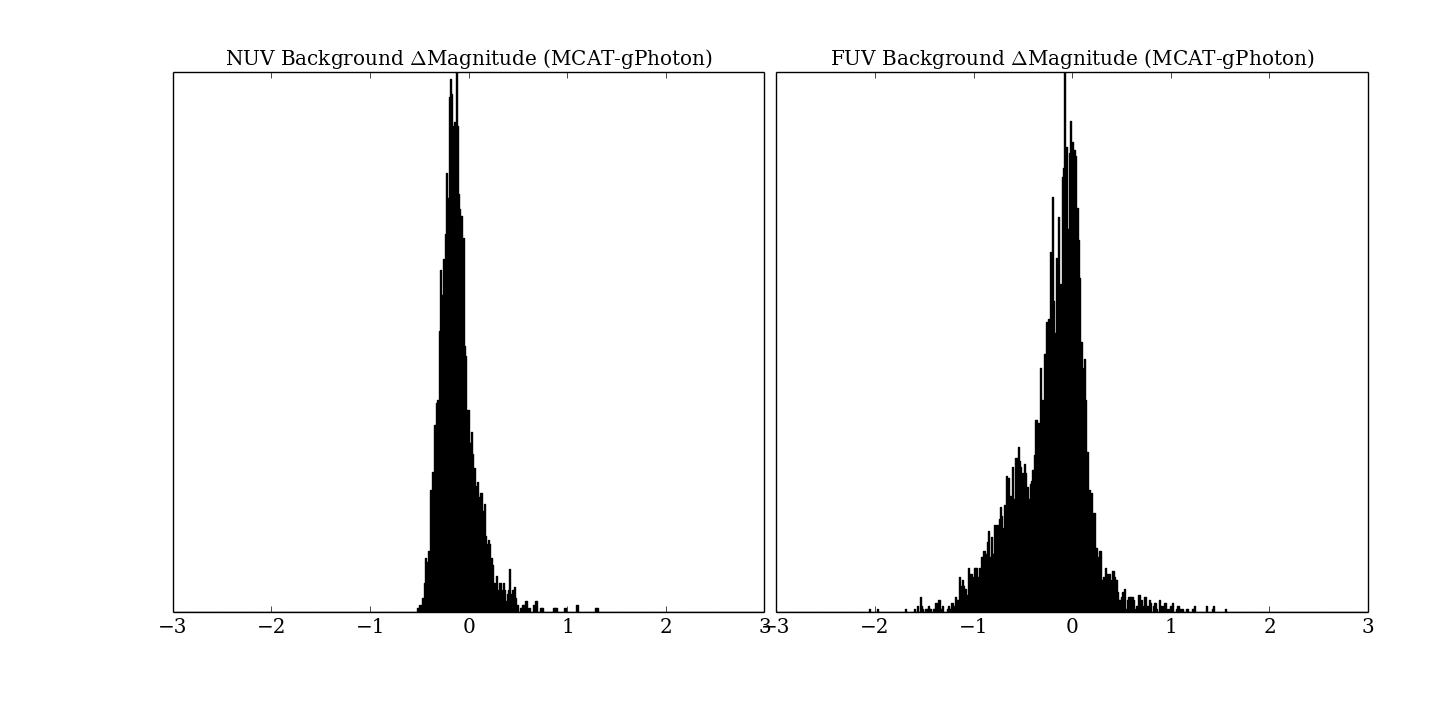
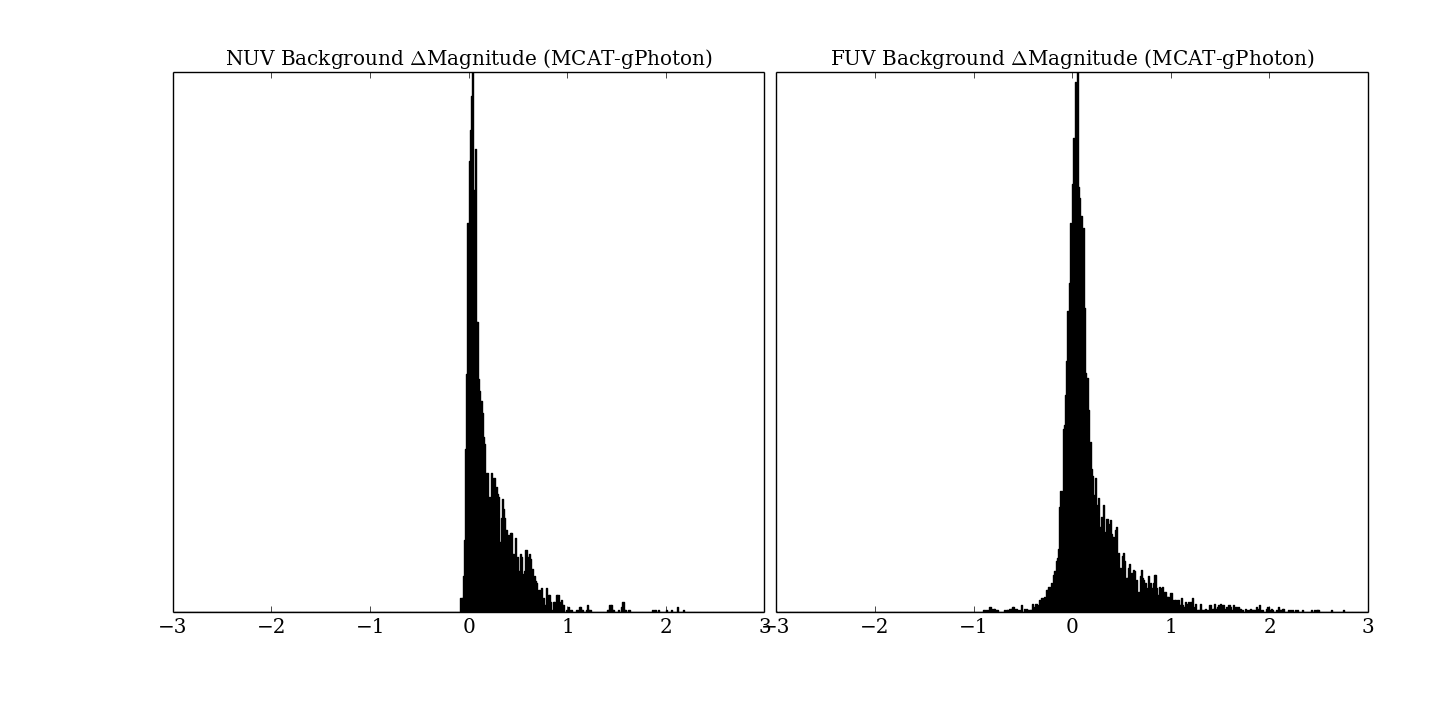
latest iteration

Changed region(s): [[0.625, 0.0917, 0.9062, 0.8556], [0.2812, 0.0917, 0.4375, 0.8556]]

diff --git a/calpaper/src/script.py b/calpaper/src/script.py
@@ -68,12 +68,16 @@ bands = ['NUV','FUV']
 base = 'calrun_'
 data = {}
 for band in bands:
-    data[band] = pd.read_csv('{base}{band}.csv'.format(base=base,band=band))
+    data[band] = pd.read_csv('{base}{band}.csv'.format(
+                                                        base=base,band=band))
     print '{band} sources: {cnt}'.format(
                                 band=band,cnt=data[band]['objid'].shape[0])
 
 """dMag vs. Mag"""
-dmag = {'gphot':lambda band: data[band]['aper4']-data[band]['mag_bgsub_cheese'],
+dmag = {'gphot_cheese':(lambda band:
+                        data[band]['aper4']-data[band]['mag_bgsub_cheese']),
+        'gphot_nomask':(lambda band:
+                        data[band]['aper4']-data[band]['mag_bgsub']),
         'mcat':lambda band: data[band]['aper4']-
             gt.counts2mag(gt.mag2counts(data[band]['mag'],band)-
             data[band]['skybg']*3600**2*mc.area(gt.aper2deg(4)),band)}
@@ -85,8 +89,7 @@ for bgmode in dmag.keys():
         dmag_err=gu.dmag_errors(100.,band,sigma=1.41)
         # Make a cut on crazy outliers in the MCAT. Also on det radius and expt.
         ix = ((data[band]['aper4']>0) & (data[band]['aper4']<30) &
-              (data[band]['distance']<300) & (data[band]['t_eff']<300) &
-              (data[band]['bg_cheese']>0))
+              (data[band]['distance']<300) & (data[band]['t_eff']<300))
         plt.subplot(1,2,1)
         plt.title('{band} {d}Mag vs. AB Mag (n={n},{bg}_bg)'.format(
                             d=r'$\Delta$',band=band,n=ix.shape[0],bg=bgmode))
@@ -142,6 +145,23 @@ for i,band in enumerate(bands):
     plt.title('{band} Background {d}Magnitude (MCAT-gPhoton)'.format(band=band,d=r'$\Delta$'))
     plt.hist(delta[ix],bins=500,range=[-3,3],color='k')
 fig.savefig('../calpaper/src/dMag_bg.png')
+
+for i,band in enumerate(bands):
+    fig = plt.figure(figsize=(8*scl,4*scl))
+    fig.subplots_adjust(left=0.12,right=0.95,wspace=0.02,bottom=0.15,top=0.9)
+    gphot_bg = gt.counts2mag(data[band]['bg']/data[band]['t_eff'],band)
+    mcat_bg = gt.counts2mag(
+                    data[band]['skybg']*3600**2*mc.area(gt.aper2deg(4)),band)
+    delta = mcat_bg - gphot_bg
+    ix = (np.isfinite(delta))
+    plt.subplot(1,2,1,xlim=[14,25])
+    plt.title('{band} Background vs. Magnitude (MCAT)'.format(band=band))
+    plt.plot(data[band]['aper4'][ix],mcat_bg[ix],'.',color='k',alpha=0.2)
+    plt.subplot(1,2,2,xlim=[14,25],yticks=[])
+    plt.title('{band} Background vs. Magnitude (gPhoton)'.format(band=band))
+    plt.plot(data[band]['mag_bgsub_cheese'][ix],gphot_bg[ix],'.',
+                                                        color='k',alpha=0.2)
+fig.savefig('../calpaper/src/bg_v_mag.png')
 
 """Astrometry"""
 a = 3600
